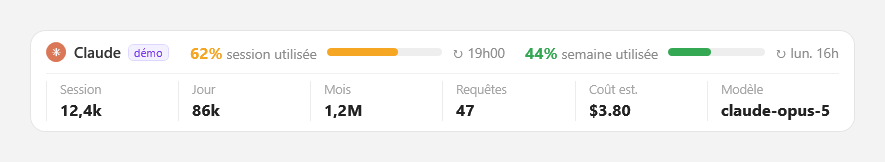
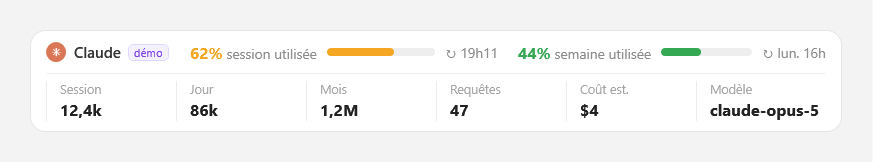
fix: geometrie du bandeau calee sur les tuiles, cout arrondi
Ecart tuiles -> bandeau ramene au pas entre deux tuiles (10 px). Les marges
seules n'y suffisaient pas : centree verticalement, la grille flotte des
qu'il reste du mou et l'ecart mesurait 42 px. Elle est desormais ancree en
bas, et la fenetre ramenee a 630 px de haut pour ne pas laisser de bande
vide sous la toolbar.

Largeur et hauteur du bandeau lues sur une tuile reelle au premier
LayoutUpdated : la largeur retire les marges horizontales d'une tuile, sans
quoi le bandeau depassait de 5 px de chaque cote — la grille mesure des
boites de mise en page, pas des bords visibles. LayoutUpdated et non Loaded,
qui ne se declenche pas sans fenetre affichee.

Cout arrondi a l'unite : une estimation aux tarifs publics, sur un
abonnement qui ne facture pas au jeton, ne doit pas avoir l'allure d'un
releve bancaire.

La cible « window » de l'outil de capture remarche : elle mesure et arrange
le contenu hors ecran au lieu d'appeler Show(), qui declenchait une boucle
affamant le dispatcher. Alignement, ecart et hauteur sont donc verifies a
l'image et non seulement calcules.

Claude-Session: https://claude.ai/code/session_01YT6Qea6YbvyeEBfMhfv4xK

diff --git a/Views/QuickAccessWindow.xaml b/Views/QuickAccessWindow.xaml
@@ -4,8 +4,8 @@
         xmlns:views="clr-namespace:DockPad.Views"
         Title="DockPad"
         Icon="pack://application:,,,/app.ico"
-        Width="850" Height="700"
-        MinWidth="850" MinHeight="600"
+        Width="850" Height="630"
+        MinWidth="850" MinHeight="560"
         WindowStartupLocation="CenterScreen"
         WindowStyle="None"
         ResizeMode="CanResizeWithGrip"
@@ -250,9 +250,18 @@
 
         <!-- Grille de raccourcis 4 × 6 -->
         <ScrollViewer Grid.Row="1" VerticalScrollBarVisibility="Auto" HorizontalScrollBarVisibility="Disabled">
+            <!-- La hauteur de fenêtre (630) est celle qu'il faut juste pour la toolbar, les quatre
+                 rangées, le bandeau et la pagination : plus haut laisserait une bande vide sous la
+                 toolbar, la grille étant ancrée en bas.
+
+                 Ancré en bas, et non centré : centrée verticalement, la grille flotte dès qu'il
+                 reste du mou dans la ligne, et l'écart avec le bandeau n'est plus déterminé (mesuré
+                 42 px au lieu des 10 voulus). Ancrée en bas, la marge basse de 5 px plus les 5 px de
+                 marge d'une tuile donnent exactement le pas entre deux tuiles. Le mou passe
+                 au-dessus de la grille. -->
             <Grid x:Name="ShortcutsGrid"
-                  HorizontalAlignment="Center" VerticalAlignment="Center"
-                  Margin="20">
+                  HorizontalAlignment="Center" VerticalAlignment="Bottom"
+                  Margin="20,20,20,5">
                 <Grid.RowDefinitions>
                     <RowDefinition Height="Auto"/>
                     <RowDefinition Height="Auto"/>
@@ -271,11 +280,11 @@
         </ScrollViewer>
 
         <!-- Bandeau Usage IA. Masqué, il ne prend aucune place (Collapsed, pas Hidden).
-             Largeur alignée sur la grille de tuiles, posée une fois par le code (voir
-             AlignBannerToGrid) : ni marges fixes, qui laisseraient le bandeau dépasser dès qu'on
-             élargit la fenêtre, ni binding sur ActualWidth, qui fait boucler la mise en page. -->
+             Largeur alignée sur la grille de tuiles, posée une fois par le code au premier
+             LayoutUpdated : ni marges fixes, qui laisseraient le bandeau dépasser dès qu'on élargit
+             la fenêtre, ni binding sur ActualWidth, qui fait boucler la mise en page. -->
         <views:UsagePanel x:Name="UsageBanner" Grid.Row="2"
-                          HorizontalAlignment="Center" Margin="0,0,0,20"/>
+                          HorizontalAlignment="Center" Margin="0,0,0,10"/>
 
         <!-- Barre de pagination -->
         <Border Grid.Row="3" Background="White" Padding="12,10"

diff --git a/Views/UsagePanel.xaml b/Views/UsagePanel.xaml
@@ -140,7 +140,9 @@
             Padding="12,8"
             SnapsToDevicePixels="True" UseLayoutRounding="True"
             Visibility="{Binding IsVisible, Converter={StaticResource BoolToVisibilityConverter}}">
-        <StackPanel>
+        <!-- Centré : la hauteur du bandeau est imposée (celle d'une tuile), le contenu est un peu
+             plus court — sans centrage, le mou tomberait tout entier en bas. -->
+        <StackPanel VerticalAlignment="Center">
 
             <!-- Une seule ligne : sélecteur de fournisseur, puis les deux jauges. -->
             <Grid>

diff --git a/tools/UsageShot/Program.cs b/tools/UsageShot/Program.cs
@@ -74,6 +74,12 @@ internal static class Program
             return;
         }
 
+        if (target == "window")
+        {
+            CaptureWindow(outPath);
+            return;
+        }
+
         Window win;
         switch (target)
         {
@@ -81,16 +87,6 @@ internal static class Program
                 win = new UsageConfigDialog { WindowStartupLocation = WindowStartupLocation.CenterScreen };
                 break;
 
-            case "window":
-                var quick = new QuickAccessWindow { WindowStartupLocation = WindowStartupLocation.CenterScreen };
-                // Le bandeau se construit avec le registre de production, qui lirait le vrai profil
-                // Claude : on le remplace par la fixture avant tout affichage.
-                quick.UsageBannerPanel.ViewModel = FixtureViewModel();
-                // La fenêtre a déjà démarré son bandeau sur l'ancien ViewModel via
-                // IsVisibleChanged : il faut relancer celui qu'on vient de substituer.
-                quick.Loaded += (_, _) => quick.UsageBannerPanel.Start();
-                win = quick;
-                break;
 
             default:
                 throw new ArgumentException($"cible inconnue : {target} (panel | panel-tabs | window | config)");
@@ -103,12 +99,41 @@ internal static class Program
         System.Windows.Threading.Dispatcher.Run();
     }
 
+    /// <summary>
+    /// Rend le contenu de <c>QuickAccessWindow</c> sans l'afficher, pour juger l'intégration du
+    /// bandeau — alignement sur les tuiles, écart vertical, hauteur.
+    /// </summary>
+    /// <remarks>
+    /// Sans <c>Show()</c> : afficher cette fenêtre dans un hôte qui n'est pas une vraie application
+    /// déclenche une boucle qui affame le dispatcher, et rien ne se rend jamais. Mesurer et arranger
+    /// son contenu contourne l'instanciation de la fenêtre. Le ViewModel de production est remplacé
+    /// par la fixture avant toute lecture : sinon la capture embarquerait la consommation réelle.
+    /// </remarks>
+    private static void CaptureWindow(string outPath)
+    {
+        var quick = new QuickAccessWindow();
+        // Taille lue sur la fenêtre elle-même : une constante recopiée ici se désynchroniserait du
+        // XAML à la première retouche.
+        double width = quick.Width, height = quick.Height;
+        quick.UsageBannerPanel.ViewModel = FixtureViewModel();
+        quick.UsageBannerPanel.Start();
+
+        var root = (FrameworkElement)quick.Content;
+        root.Measure(new Size(width, height));
+        root.Arrange(new Rect(0, 0, width, height));
+        root.UpdateLayout();
+
+        Save(root, width, height, outPath, "window");
+    }
+
     /// <summary>Rend le bandeau seul, sur le fond de la grille, sans passer par une fenêtre.</summary>
     private static void CapturePanel(string outPath)
     {
-        // 708 = largeur du bloc de tuiles (6 × 118), sur laquelle le bandeau est aligné dans la
-        // fenêtre. Capturer plus large donnerait une image flatteuse mais irréaliste.
-        const double width = 708;   // 900 de bandeau + 24 de marge de chaque côté
+        // 698 = largeur réelle du bandeau dans la fenêtre : le bloc de tuiles (6 × 118) moins les
+        // marges horizontales d'une tuile, pour affleurer leurs bords visibles. Capturer plus large
+        // donnerait une image flatteuse mais irréaliste — c'est à cette largeur que les jauges se
+        // serrent.
+        const double width = 698;   // 900 de bandeau + 24 de marge de chaque côté
 
         var panel = new UsagePanel { ViewModel = FixtureViewModel() };
         var frame = new Border
@@ -145,15 +170,15 @@ internal static class Program
     private static List<IUsageProvider> FixtureProviders() =>
     [
         new DemoUsageProvider("claude", "Claude", "✳", "#D97757",
-            new DemoUsageProvider.DemoValues("claude-opus-5", 12_400, 86_000, 1_200_000, 47, "$3.80",
+            new DemoUsageProvider.DemoValues("claude-opus-5", 12_400, 86_000, 1_200_000, 47, "$4",
                 62, TimeSpan.FromHours(2) + TimeSpan.FromMinutes(40), 44, TimeSpan.FromDays(4))),
 
         new DemoUsageProvider("codex", "Codex", "C", "#10A37F",
-            new DemoUsageProvider.DemoValues("gpt-5-codex", 8_100, 54_000, 760_000, 31, "$2.10",
+            new DemoUsageProvider.DemoValues("gpt-5-codex", 8_100, 54_000, 760_000, 31, "$2",
                 38, TimeSpan.FromHours(4), 27, TimeSpan.FromDays(4))),
 
         new DemoUsageProvider("gemini", "Gemini", "G", "#4285F4",
-            new DemoUsageProvider.DemoValues("gemini-2.5-pro", 3_600, 22_000, 310_000, 14, "$0.90",
+            new DemoUsageProvider.DemoValues("gemini-2.5-pro", 3_600, 22_000, 310_000, 14, "$1",
                 21, TimeSpan.FromHours(9), 12, TimeSpan.FromDays(4))),
 
         new DemoUsageProvider("copilot", "Copilot", "⊕", "#8957E5",

diff --git a/Views/QuickAccessWindow.xaml.cs b/Views/QuickAccessWindow.xaml.cs
@@ -39,26 +39,30 @@ public partial class QuickAccessWindow : Window
         TxtVersion.Text = v != null ? $"v{v.Major}.{v.Minor}.{v.Build}" : "";
 
         UsageBanner.ViewModel = new UsageViewModel();
-        Loaded += (_, _) => AlignBannerToGrid();
+        // LayoutUpdated et non Loaded : la mise en page a lieu même quand la fenêtre n'est pas
+        // affichée (l'outil de capture mesure et arrange son contenu hors écran), et Loaded ne
+        // se déclenche jamais dans ce cas.
+        EventHandler? align = null;
+        align = (_, _) =>
+        {
+            if (ShortcutsGrid.ActualWidth <= 0) return;
+            if (ShortcutsGrid.Children.Count == 0) return;
+            if (ShortcutsGrid.Children[0] is not FrameworkElement tile || tile.ActualHeight <= 0) return;
+
+            // Dimensions prises sur la grille et sur une tuile réelle, pas recopiées depuis le
+            // style : une seule source de vérité, qui suit automatiquement un changement de taille
+            // de tuile. La largeur retire les marges horizontales d'une tuile, sinon le bandeau
+            // dépasse de 5 px de chaque côté — la grille mesure les boîtes de mise en page, pas les
+            // bords visibles.
+            UsageBanner.Width = ShortcutsGrid.ActualWidth - (tile.Margin.Left + tile.Margin.Right);
+            UsageBanner.Height = tile.ActualHeight;
+            LayoutUpdated -= align;   // se désabonner évite la boucle : poser la taille relance un passage
+        };
+        LayoutUpdated += align;
         // Un seul point de branchement pour le bandeau : l'état d'affichage réel de la fenêtre.
         // Brancher chaque Show()/Hide() du code laisserait passer les prochains appels ajoutés.
         IsVisibleChanged += (_, _) => SyncUsageBanner();
         StateChanged += (_, _) => SyncUsageBanner();
-    }
-
-    /// <summary>
-    /// Aligne la largeur du bandeau sur celle du bloc de tuiles.
-    /// </summary>
-    /// <remarks>
-    /// Posée une seule fois, en code. Un binding sur <c>ShortcutsGrid.ActualWidth</c> fait boucler
-    /// la mise en page : la largeur du bandeau change la hauteur de sa ligne, ce qui fait
-    /// apparaître ou disparaître la barre de défilement de la grille, ce qui change la largeur
-    /// disponible — et on recommence. Une valeur unique suffit de toute façon : les tuiles ont une
-    /// taille fixe, donc le bloc garde la même largeur quand la fenêtre est redimensionnée.
-    /// </remarks>
-    private void AlignBannerToGrid()
-    {
-        if (ShortcutsGrid.ActualWidth > 0) UsageBanner.Width = ShortcutsGrid.ActualWidth;
     }
 
     /// <summary>

diff --git a/DockPad.Tests/ClaudePricingTests.cs b/DockPad.Tests/ClaudePricingTests.cs
@@ -71,22 +71,24 @@ public class ClaudePricingTests
     }
 
     [Fact]
-    public void Format_DonneDesDollarsADeuxDecimales()
+    public void Format_ArrondiALUnite_SansCentimes()
     {
-        Assert.Equal("$3.80", ClaudePricing.Format(3.8m));
-        Assert.Equal("$0.00", ClaudePricing.Format(0m));
-        Assert.Equal("$12.34", ClaudePricing.Format(12.344m));
+        // Une estimation ne doit pas avoir l'allure d'un relevé bancaire.
+        Assert.Equal("$4", ClaudePricing.Format(3.8m));
+        Assert.Equal("$0", ClaudePricing.Format(0m));
+        Assert.Equal("$12", ClaudePricing.Format(12.344m));
+        Assert.Equal("$2021", ClaudePricing.Format(2021.14m));
     }
 
     [Fact]
-    public void Format_SousCultureFrancaise_GardeLePointDecimal()
+    public void Format_SousCultureFrancaise_GardeLeSymboleDollar()
     {
         // La devise est celle de la source (USD) : « 3,80 $ » suggérerait une conversion.
         var precedente = CultureInfo.CurrentCulture;
         try
         {
             CultureInfo.CurrentCulture = new CultureInfo("fr-FR");
-            Assert.Equal("$3.80", ClaudePricing.Format(3.8m));
+            Assert.Equal("$4", ClaudePricing.Format(3.8m));
         }
         finally { CultureInfo.CurrentCulture = precedente; }
     }

diff --git a/DockPad.Tests/UsageViewModelTests.cs b/DockPad.Tests/UsageViewModelTests.cs
@@ -17,7 +17,7 @@ public class UsageViewModelTests
 
     private static AiUsage Usage(string id, string name = "", bool demo = false,
                                  long session = 12_400, long day = 86_000, long month = 1_200_000,
-                                 int requests = 47, string cost = "$3.80", string model = "claude-opus-5",
+                                 int requests = 47, string cost = "$4", string model = "claude-opus-5",
                                  int? sessionUsed = 62, int? weekUsed = 44) => new()
     {
         ProviderId = id,
@@ -63,7 +63,7 @@ public class UsageViewModelTests
 
         Assert.Equal(6, vm.Metrics.Count);
         Assert.Equal("Coût est.", vm.Metrics[4].Label);
-        Assert.Equal("$3.80", vm.Metrics[4].Value);
+        Assert.Equal("$4", vm.Metrics[4].Value);
         Assert.Equal("Modèle", vm.Metrics[5].Label);
     }
 

diff --git a/Services/Usage/ClaudePricing.cs b/Services/Usage/ClaudePricing.cs
@@ -64,9 +64,16 @@ public static class ClaudePricing
              +  cacheRead  * rate.Input * CacheReadMultiplier) / 1_000_000m;
     }
 
-    /// <summary>Coût formaté en dollars, culture figée : « $3.80 ».</summary>
+    /// <summary>
+    /// Coût formaté en dollars, arrondi à l'unité et culture figée : « $2021 ».
+    /// </summary>
+    /// <remarks>
+    /// Pas de centimes : la valeur est une estimation à partir de tarifs publics, sur un abonnement
+    /// qui ne facture pas au jeton. Afficher deux décimales donnerait à une approximation l'allure
+    /// d'un relevé bancaire.
+    /// </remarks>
     public static string Format(decimal usd) =>
-        usd.ToString("$0.00", CultureInfo.InvariantCulture);
+        usd.ToString("$0", CultureInfo.InvariantCulture);
 
     private static Rate RateFor(string model)
     {

diff --git a/Services/Usage/DemoUsageProvider.cs b/Services/Usage/DemoUsageProvider.cs
@@ -90,7 +90,7 @@ public sealed class DemoUsageProvider : IUsageProvider
         id: "demo", name: "Démo", glyph: "D", accent: "#7C3AED",
         values: new DemoValues(
             Model: "claude-sonnet-5",
-            Session: 12_400, Day: 86_000, Month: 1_200_000, Requests: 47, Cost: "$3.80",
+            Session: 12_400, Day: 86_000, Month: 1_200_000, Requests: 47, Cost: "$4",
             SessionUsedPct: 62, SessionResetIn: TimeSpan.FromHours(2) + TimeSpan.FromMinutes(40),
             WeekUsedPct: 44, WeekResetIn: TimeSpan.FromDays(4)));
 }

diff --git a/DockPad.Tests/UsageProvidersTests.cs b/DockPad.Tests/UsageProvidersTests.cs
@@ -13,7 +13,7 @@ public class DemoUsageProviderTests
 {
     private static DemoUsageProvider Provider(Func<DateTime>? clock = null) =>
         new("demo", "Démo", "D", "#7C3AED",
-            new DemoUsageProvider.DemoValues("claude-sonnet-5", 12_400, 86_000, 1_200_000, 47, "$3.80",
+            new DemoUsageProvider.DemoValues("claude-sonnet-5", 12_400, 86_000, 1_200_000, 47, "$4",
                                              62, TimeSpan.FromHours(2), 44, TimeSpan.FromDays(4)),
             clock);
 

diff --git a/CLAUDE.md b/CLAUDE.md
@@ -286,6 +286,8 @@ Bandeau sous la grille (`Views/UsagePanel.xaml`), 4ᵉ ligne de `QuickAccessWind
 - **Les onglets ont leur propre ligne** : au-delà de deux fournisseurs, onglets et jauges ne tiennent pas côte à côte à 850 px, et le texte de reset se tronquait
 - **Aucun calcul dans le XAML** : tout vient de `UsageViewModel`, testé sans WPF. Les couleurs voyagent en chaînes (`#34A853`) converties par `StringToBrushConverter` — la décision de couleur appartient à la logique
 - **Valeur inconnue → `—`, jamais `0`.** Une session à zéro signifie « aucun bloc actif », pas « rien consommé ». Une fenêtre de quota absente affiche « quota inconnu » plutôt qu'une barre vide, qui se lirait « rien consommé »
+- **Géométrie calée sur les tuiles** : largeur = largeur du bloc de tuiles moins les marges horizontales d'une tuile (pour affleurer leurs bords visibles), hauteur = hauteur d'une tuile. Les deux sont lues **sur une tuile réelle** au premier `LayoutUpdated`, jamais recopiées depuis le style — une seule source de vérité, qui suit un changement de taille de tuile. `LayoutUpdated` et non `Loaded` : la mise en page a lieu même sans fenêtre affichée, ce dont l'outil de capture a besoin ; se désabonner après le premier passage évite la boucle
+- **La grille de tuiles est ancrée en bas** (`VerticalAlignment="Bottom"`), et la fenêtre fait 630 px de haut : centrée, la grille flotte dès qu'il reste du mou et l'écart avec le bandeau n'est plus déterminé (mesuré 42 px au lieu des 10 voulus). Ancrée, la marge basse de 5 px plus les 5 px de marge d'une tuile donnent exactement le pas entre deux tuiles
 - **Cycle de vie** branché sur `IsVisibleChanged` + `StateChanged` de la fenêtre, pas sur chaque `Show()`/`Hide()` : un seul point, qui couvre les appels ajoutés plus tard. Rafraîchissement toutes les 60 s **uniquement quand la fenêtre est visible et non réduite** — DockPad passe l'essentiel de son temps dans la barre système
 - **Glyphes** : `FontFamily="Segoe UI Symbol, Segoe UI Emoji, Segoe UI"` obligatoire sur les pastilles — Segoe UI ne contient ni ✳ (U+2733) ni ⊕, qui tombent en tofu
 
@@ -480,7 +482,7 @@ dotnet build tools/UsageShot
 UsageShot.exe panel      docs/screenshots/usage-panel.png       # cas par defaut : un seul fournisseur
 UsageShot.exe panel-tabs docs/screenshots/usage-panel-tabs.png  # deux fournisseurs, mecanique d'onglets
 UsageShot.exe config     docs/screenshots/usage-config.png      # fenetre de reglages
-UsageShot.exe window     ...                                    # HORS SERVICE, voir ci-dessous
+UsageShot.exe window     docs/screenshots/usage-window.png      # integration dans la fenetre
 ```
 
 - **Fixture exclusivement `DemoUsageProvider`** (quatre instances), `ClaudeUsageProvider` délibérément absent : les vrais chiffres de consommation sont des données personnelles, et une capture doit être reproductible. C'est la raison d'être de la liste injectable de `UsageService` — le registre de production reste intact
@@ -489,10 +491,10 @@ UsageShot.exe window     ...                                    # HORS SERVICE, 
 - **`Start()` avant toute mesure** : sans données le bandeau est `Collapsed` et la capture est vide
 - **`app.ico` doit être liée dans le csproj de l'outil** (`<Resource Include="..\..\app.ico" Link="app.ico" />`) : `QuickAccessWindow` la référence par pack URI, qui se résout dans l'assembly **hôte**. Sans elle, la cible `window` lève une `IOException` au chargement du XAML. Les cibles de `BrowserShot` n'en ont pas besoin, ce sont des dialogs sans icône
 - **Rendre l'élément de contenu, pas le `Window`** : sur une fenêtre sans chrome (`WindowStyle=None`) le rendu du `Window` lui-même sort transparent
-- **Largeur de capture = 708 px**, la largeur du bloc de tuiles (6 × 118) sur laquelle le bandeau est aligné. Capturer plus large donne une image flatteuse et fausse : c'est à cette largeur que les jauges se serrent
+- **Largeur de capture = 698 px**, la largeur réelle du bandeau : le bloc de tuiles (6 × 118) moins les marges horizontales d'une tuile. Capturer plus large donne une image flatteuse et fausse — c'est à cette largeur que les jauges se serrent
 - **La fixture n'expose que deux fournisseurs visibles**, et un seul pour la cible `panel`. Quatre onglets écrasaient les jauges à la largeur réelle ; et le cas par défaut n'a de toute façon qu'un fournisseur
 
-> **Cible `window` hors service.** Le processus tourne à 80 % d'un cœur et le dispatcher n'exécute plus rien — ni `ContentRendered`, ni un `DispatcherTimer` posé après `Show`. C'est la signature d'une boucle d'invalidation qui affame les priorités inférieures. Reproduit **y compris au commit où cette cible produisait encore une image correcte**, donc la cause n'est pas la mise en page du bandeau : chercher du côté de ce que `QuickAccessWindow` déclenche hors d'une vraie application (hotkey global, hook WndProc, `PopulateGrid`). Les cibles `panel`, `panel-tabs` et `config` fonctionnent.
+> **La cible `window` ne doit jamais appeler `Show()`.** Affichée dans un hôte qui n'est pas une vraie application, `QuickAccessWindow` déclenche une boucle qui affame le dispatcher : le processus tourne à 80 % d'un cœur et rien ne s'exécute plus — ni `ContentRendered`, ni un `DispatcherTimer` posé après `Show`. Reproduit y compris à un commit où cette cible produisait encore une image correcte, donc ce n'est pas la mise en page. Le contournement est de **mesurer et arranger son contenu hors écran**, comme la cible `panel` : l'instanciation de la fenêtre est évitée et le rendu est immédiat.
 
 `tools/McpShot <tabIndex> <cheminPng>` — fenêtre Serveur MCP, avec des entrées de journal de démonstration et les chemins `C:\DockPad` dans les commandes affichées :
 
